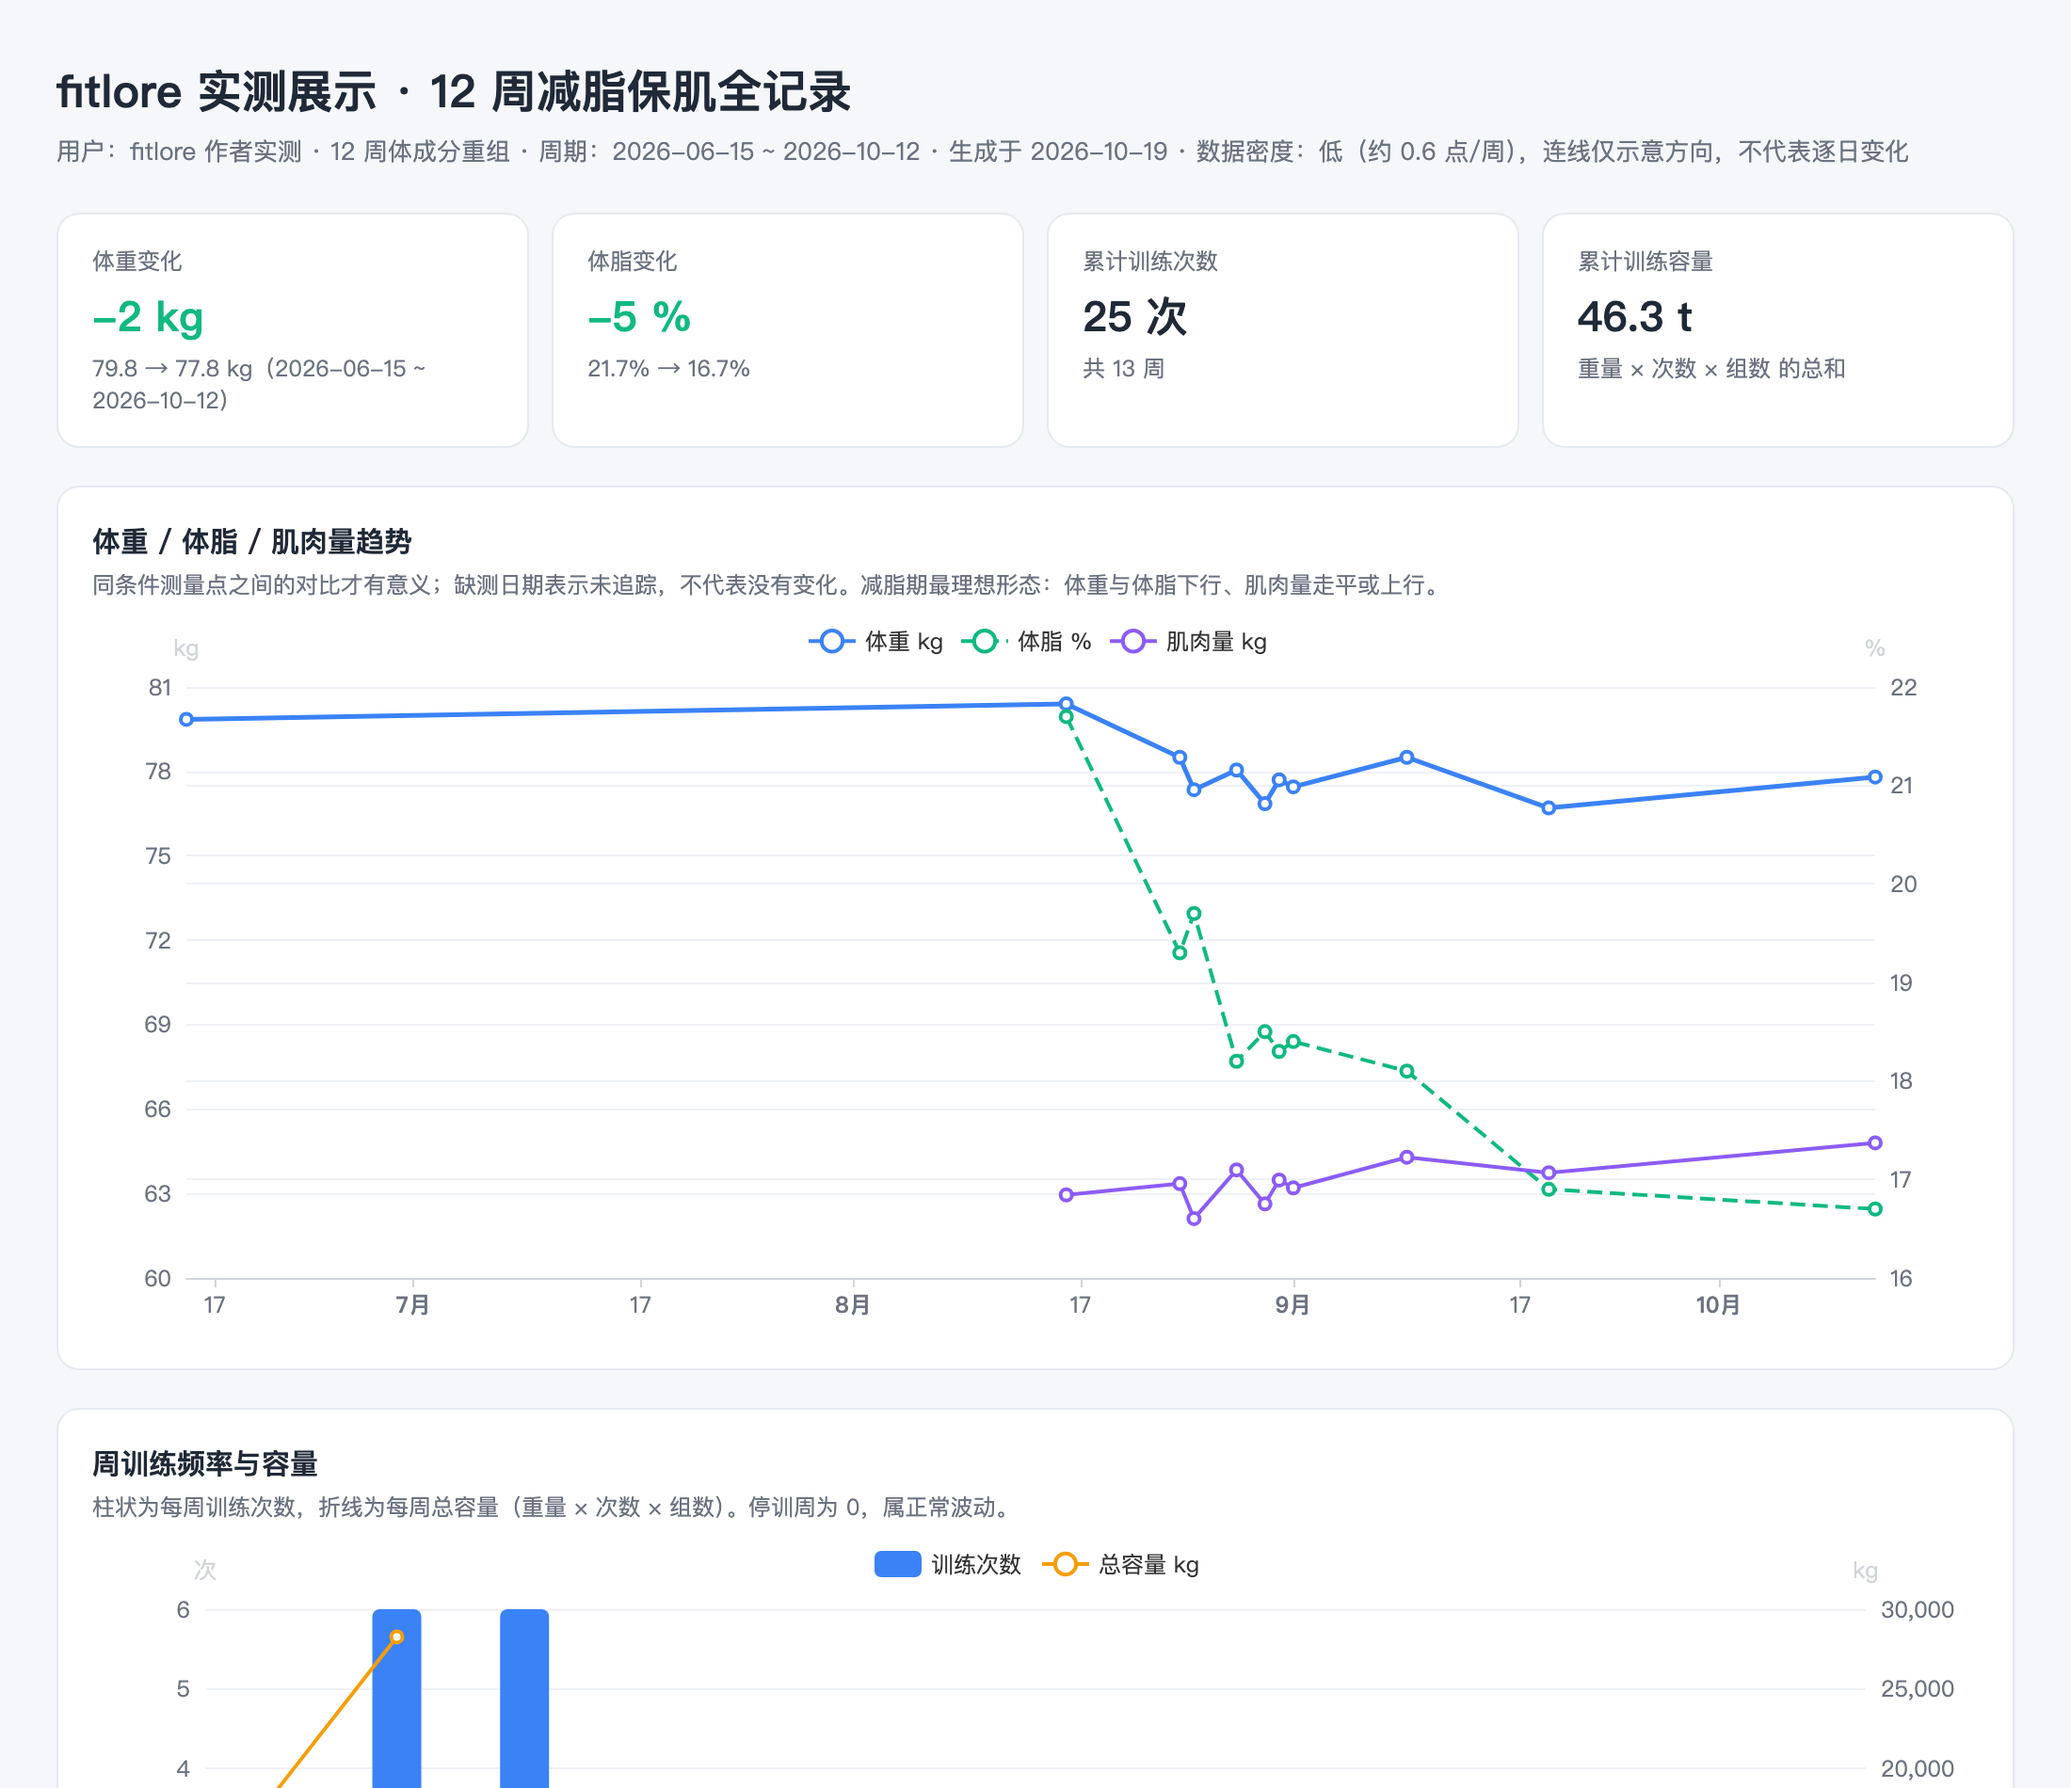
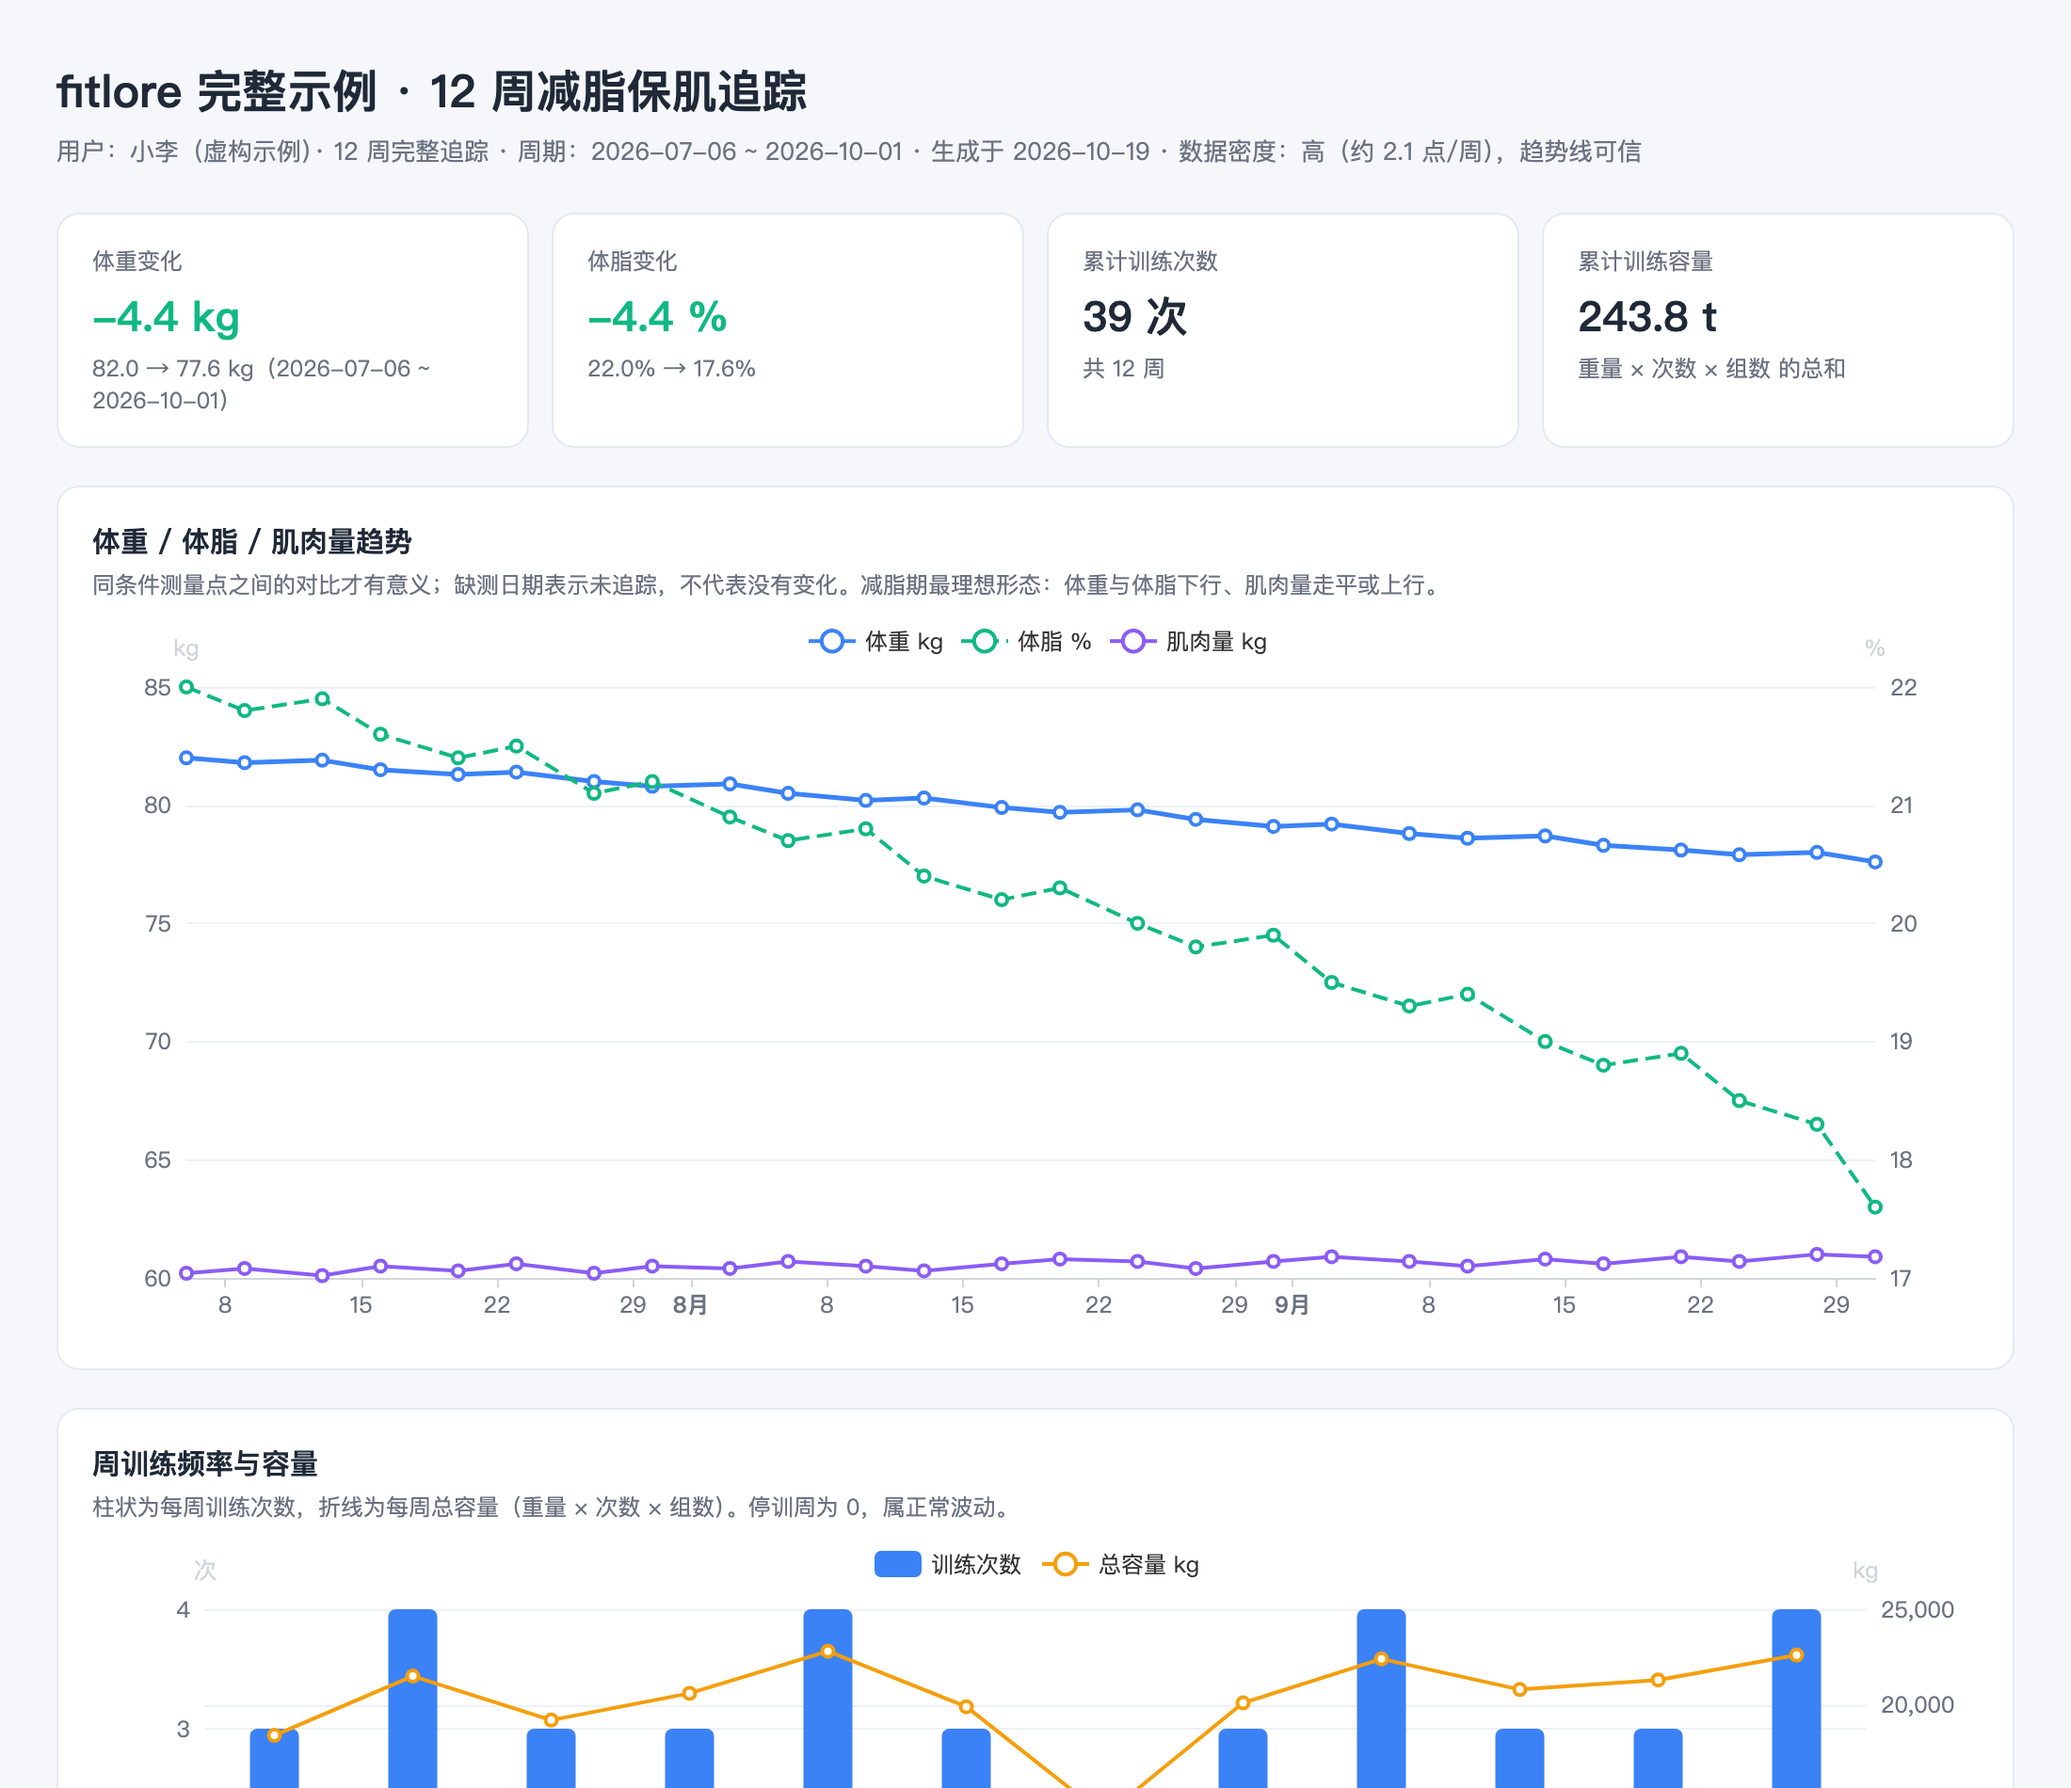
docs: richer 12-week fictional showcase (all chart sections lit)
- Showcase dataset now covers weight/bodyfat/muscle/sleep + weekly volume + 4 exercises
- README section relabeled as built-in fictional example with new numbers

diff --git a/README.md b/README.md
@@ -66,14 +66,14 @@ Dashboards are built with one command — `assets/build_dashboard.py` injects yo
 - **No-progress-shaming by default** — unless you explicitly pick strength as your goal, "didn't add weight" is never framed as a failure. Holding weight while cutting is a win.
 - **Pain grading baked in** — soreness / tightness / sharp pain / numbness each get a different protocol, checked in every review. Safety red lines outrank every training suggestion.
 
-## Real 12-week run
+## A complete 12-week example
 
-The images above come from the author's own 12-week body-recomposition program, tracked with this skill and shared with permission — a real "not logged every day" cadence, including a COVID week and a 4-week holiday gap rendered honestly as blanks.
+The images above come from a built-in fictional example (data included in `examples/`) that exercises every visualization the skill can render — body composition, training cadence, exercise progress and sleep, all at once:
 
-- **Weight −2kg, body fat −5pp, 25 sessions, 46.3t total volume**
-- Muscle mass trended flat-to-up while fat dropped — the signature of a successful recomp
-- Strength goal while cutting is *holding*, not adding: the flat deadlift line at 120kg is a win, not a plateau
-- The exercise chart splits kg and lbs (machine stack) into separate panels — never cross-compared
+- **Weight −4.4kg, body fat −4.4pp, muscle +0.7kg** — the textbook shape of a successful cut: both down-lines while muscle holds
+- **39 sessions across 12 weeks** with one planned deload week (W7) shown honestly as a dip, not hidden
+- **Sleep duration and subjective score trending up** alongside training — rendered when the user tracks them, hidden when they don't
+- **Every exercise line trending up** — progression as an outcome, not a target
 
 ![training sections](docs/screenshots/showcase-training.png)
 
